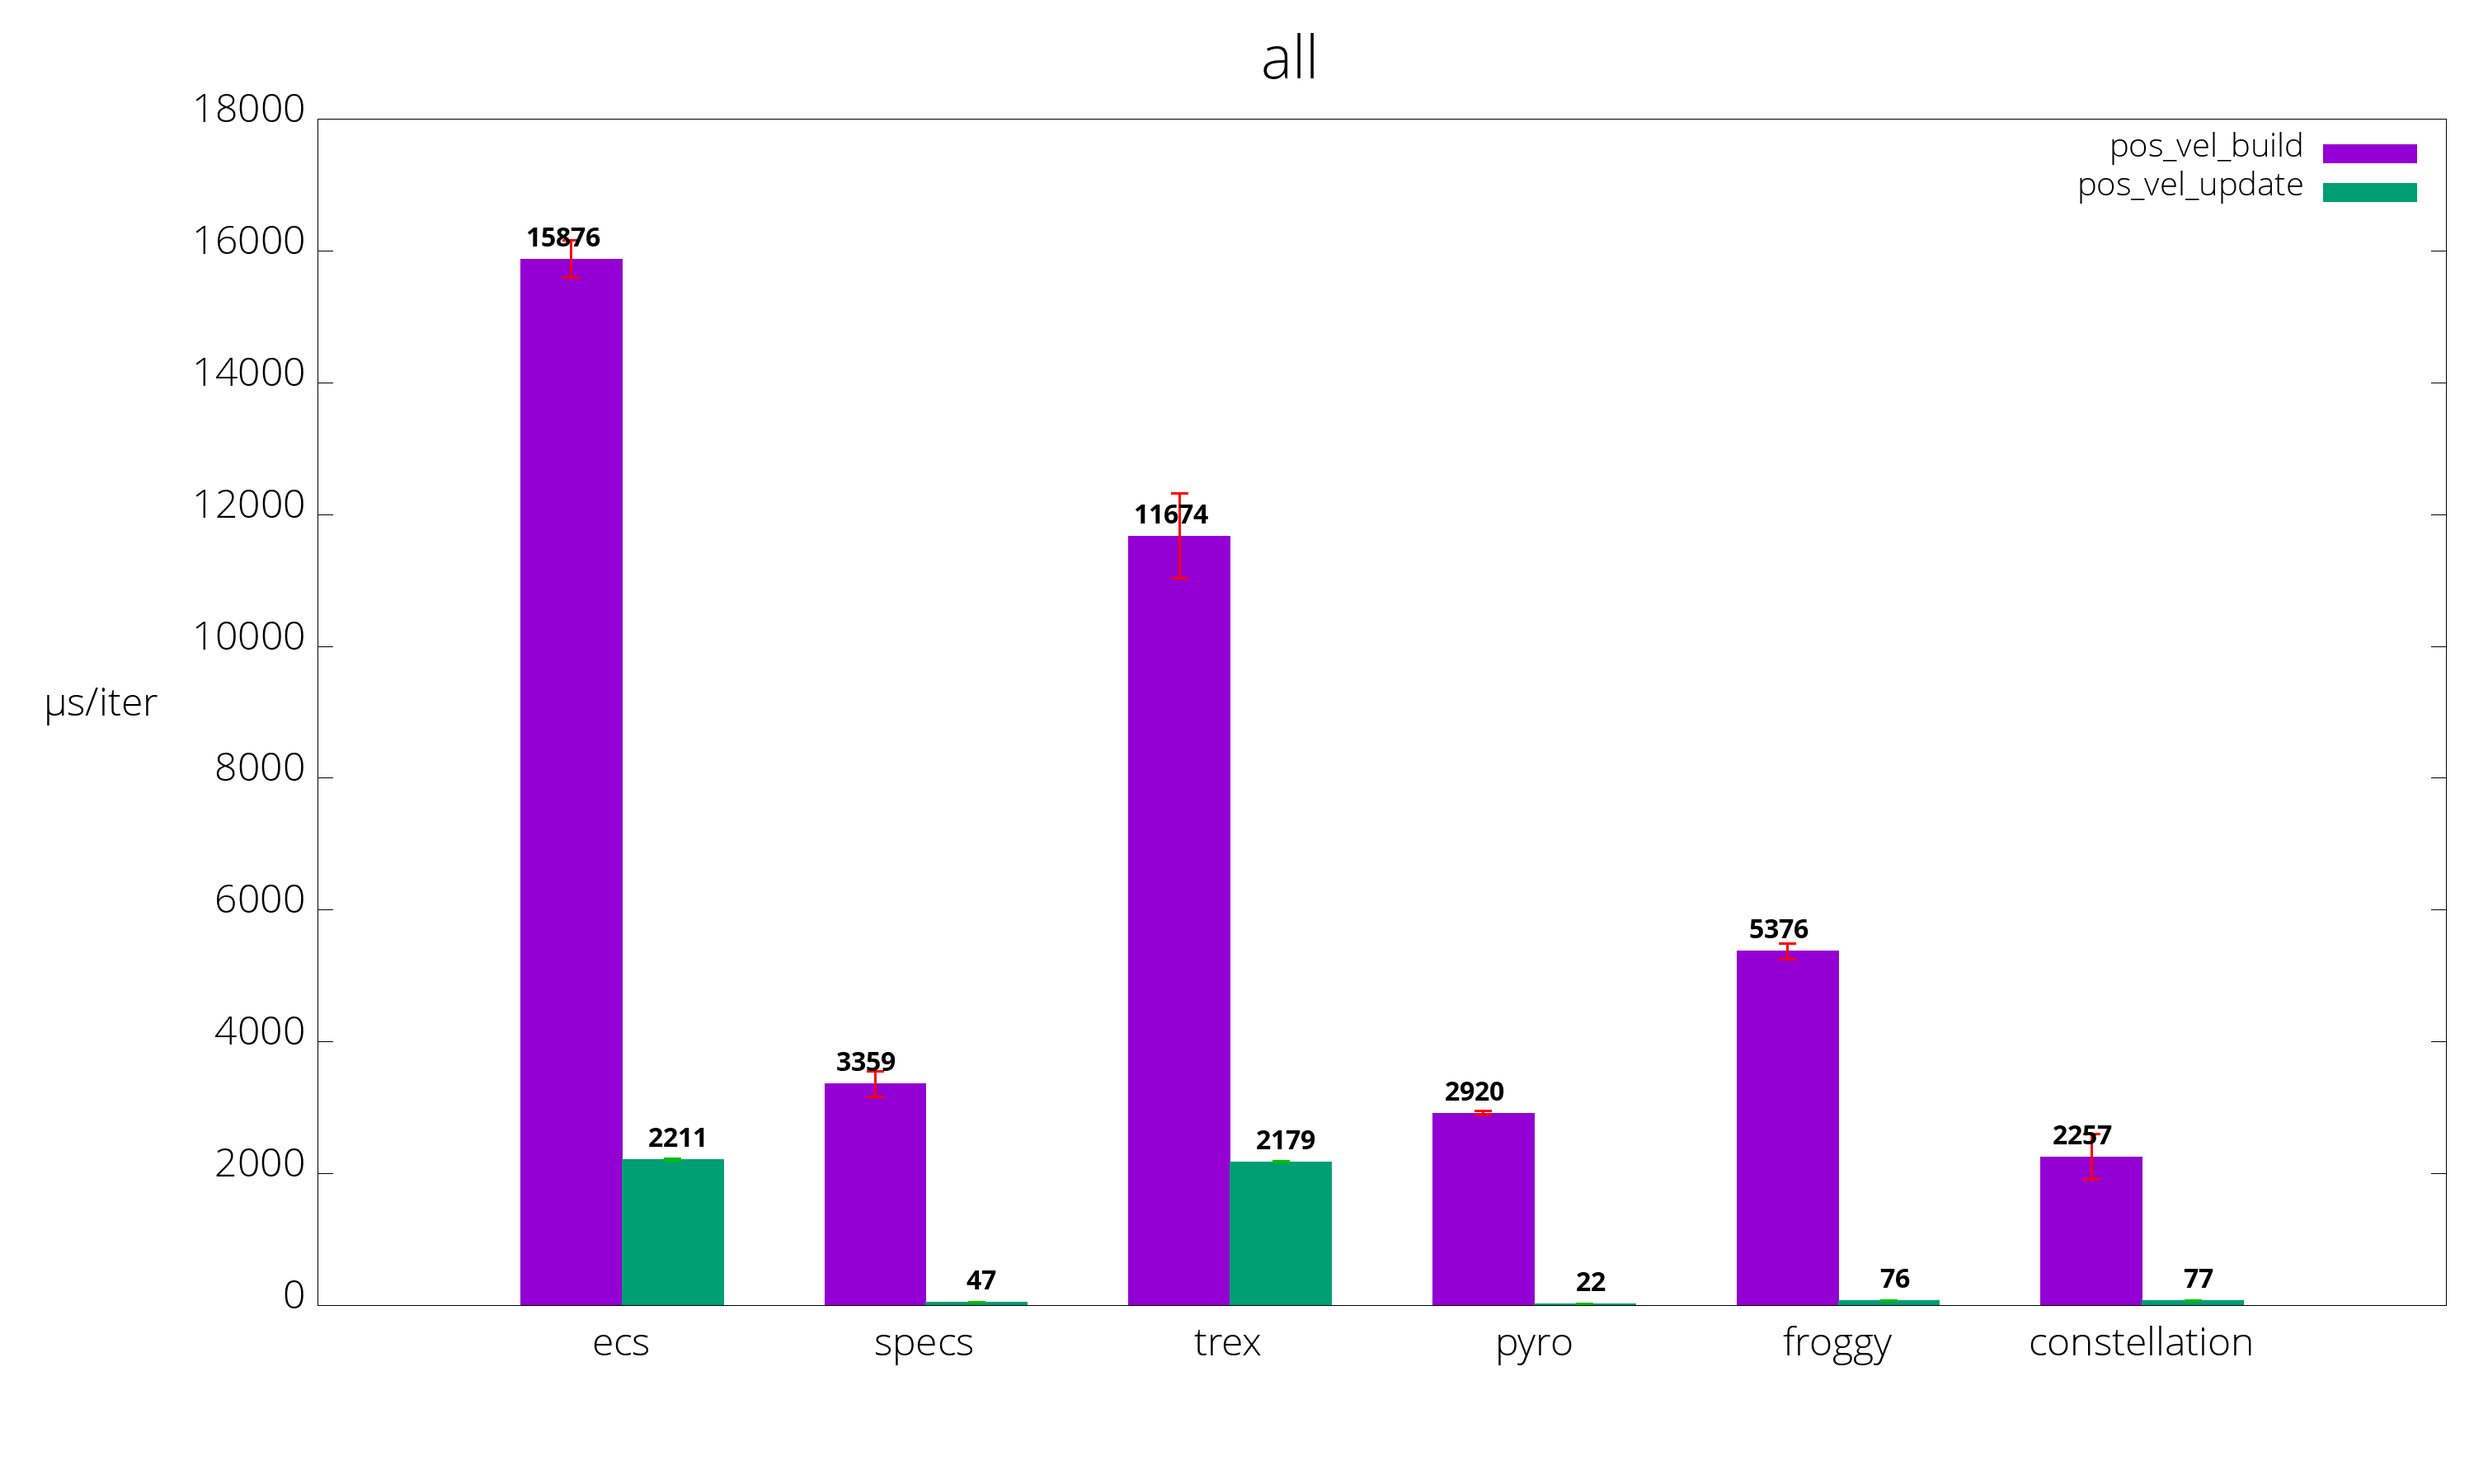
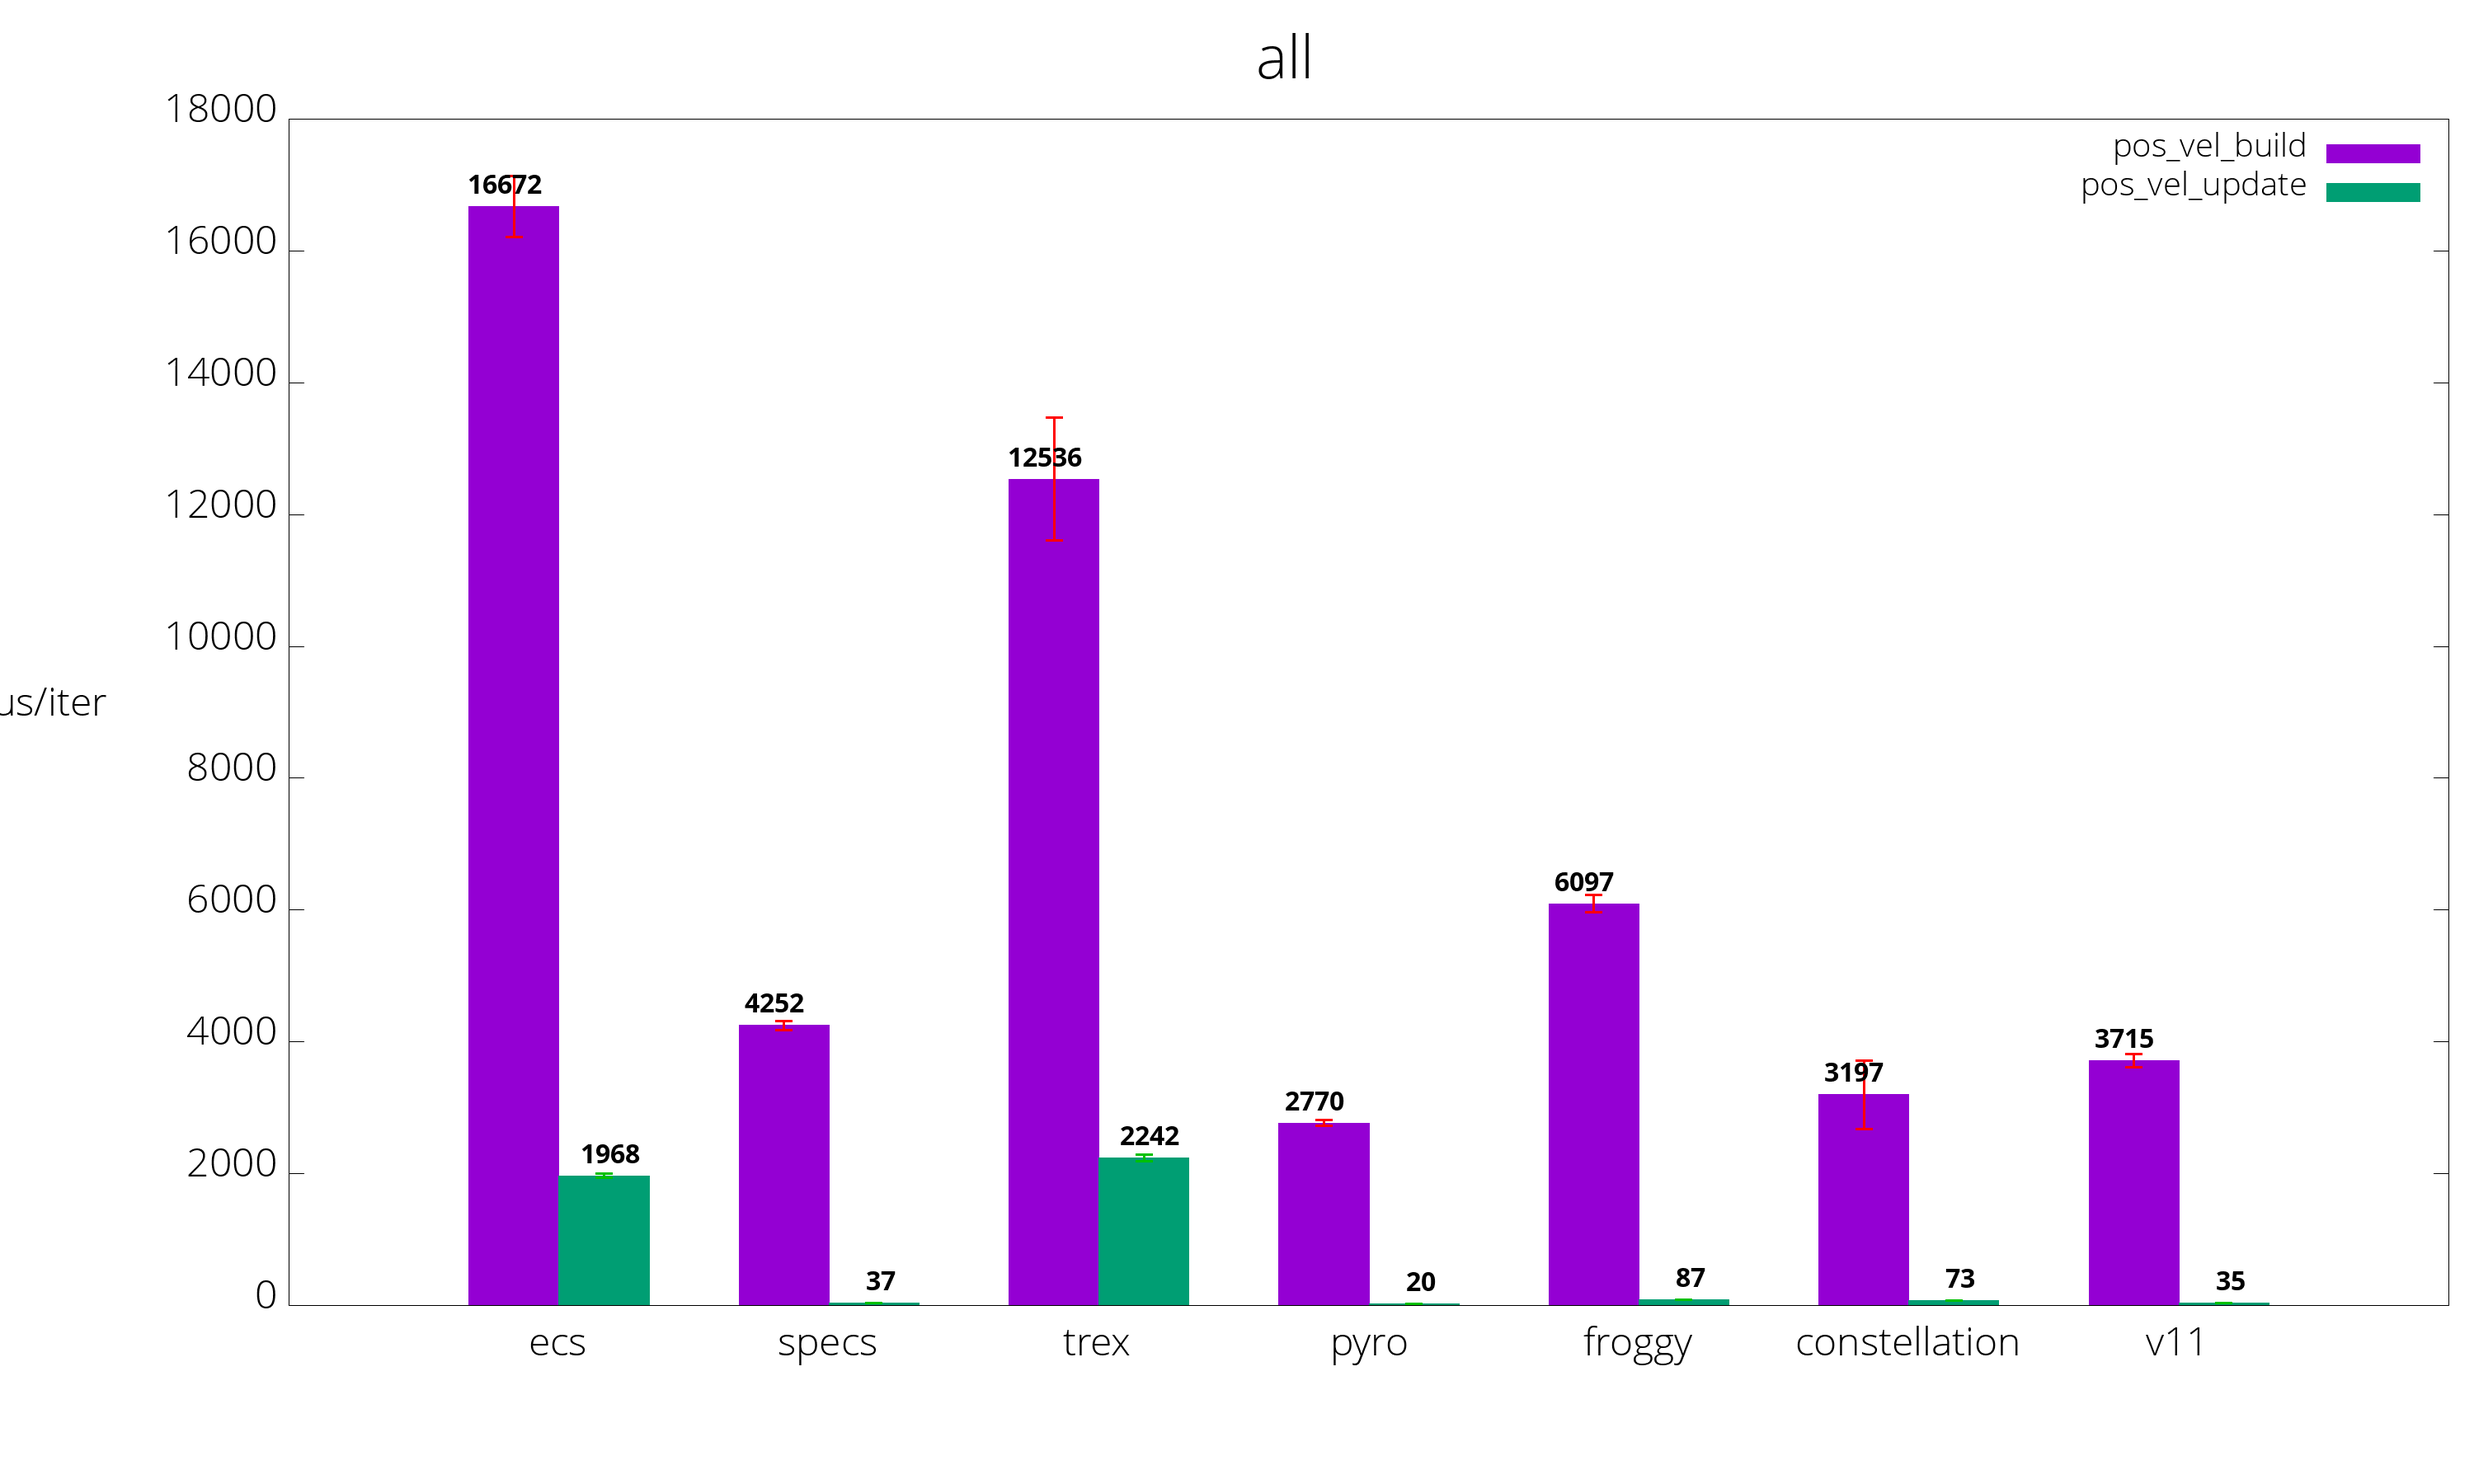
Ring.push(v11::hat)

diff --git a/benches/pos_vel_v11.rs b/benches/pos_vel_v11.rs
@@ -1,0 +1,88 @@
+#![feature(test)]
+
+extern crate test;
+use test::Bencher;
+extern crate ecs_bench;
+
+#[macro_use] extern crate v11;
+#[macro_use] extern crate v11_macros;
+
+use ecs_bench::pos_vel::{Position, Velocity, N_POS, N_POS_PER_VEL};
+
+domain! { BENCH }
+
+table! {
+    #[kind = "consistent"]
+    [BENCH/positions] {
+        p: [Position; VecCol<Position>],
+    }
+}
+table! {
+    #[kind = "consistent"]
+    [BENCH/velocities] {
+        posid: [positions::RowId; VecCol<positions::RowId>],
+        v: [Velocity; VecCol<Velocity>],
+    }
+}
+
+use v11::Universe;
+
+fn build() -> Universe {
+    static ONCE: ::std::sync::Once = ::std::sync::Once::new();
+    ONCE.call_once(|| {
+        BENCH.register();
+        positions::register();
+        velocities::register();
+    });
+    let universe = Universe::new(&[BENCH]);
+    {
+        let mut positions = positions::write(&universe);
+        let mut velocities = velocities::write(&universe);
+        positions.push_all((0..N_POS).map(|_| positions::Row {
+            p: Position {
+                x: 0.0,
+                y: 0.0,
+            },
+        }));
+        velocities.push_all(
+            (0..N_POS)
+            .filter(|i| i % N_POS_PER_VEL == 0)
+            .map(|i| {
+                let posid = positions::RowId::from_usize(i);
+                velocities::Row {
+                    posid,
+                    v: Velocity {
+                        dx: 0.0,
+                        dy: 0.0,
+                    },
+                }
+            })
+        );
+    }
+    universe
+}
+
+fn update(universe: &Universe) {
+    let mut positions = positions::write(universe);
+    let velocities = velocities::read(universe);
+    for vid in velocities.iter() {
+        let posid = velocities.posid[vid];
+        let p = &mut positions.p[posid];
+        p.x += velocities.v[vid].dx;
+        p.y += velocities.v[vid].dy;
+    }
+}
+
+#[bench]
+fn bench_build(b: &mut Bencher) {
+    b.iter(|| build());
+}
+
+#[bench]
+fn bench_update(b: &mut Bencher) {
+    let universe = build();
+
+    b.iter(|| {
+        update(&universe);
+    });
+}

diff --git a/bench_results.py b/bench_results.py
@@ -1,6 +1,6 @@
 import subprocess
 
-benches = ['ecs', 'specs', 'trex', 'pyro', 'froggy', 'constellation']
+benches = ['ecs', 'specs', 'trex', 'pyro', 'froggy', 'constellation', 'v11']
 bench_targets = ['pos_vel']
 bench_names = ['build', 'update']
 

diff --git a/README.md b/README.md
@@ -8,11 +8,11 @@ Benchmarks are located in `benches/[bench_name]_[ecs_crate_name].rs`.
  Library         | pos_vel build                 | pos_vel update                 | parallel build                 | parallel update
  --------------- |:-----------------------------:|:------------------------------:|:------------------------------:|:--------------------------------:
  [calx-ecs]      | {pos_vel_build_calx_ecs}      | {pos_vel_update_calx_ecs}      | {parallel_build_calx_ecs}      | {parallel_update_calx_ecs}
- [constellation] | 2,257 µs/iter (+/- 344) | 77 µs/iter (+/- 0) | {parallel_build_constellation} | {parallel_update_constellation}
- [ecs]           | 15,876 µs/iter (+/- 279)           | 2,211 µs/iter (+/- 13)           | {parallel_build_ecs}           | {parallel_update_ecs}
- [froggy]        | 5,376 µs/iter (+/- 117)        | 76 µs/iter (+/- 0)        | {parallel_build_froggy}        | {parallel_update_froggy}
- [specs]         | 3,359 µs/iter (+/- 191)         | 47 µs/iter (+/- 0)         | {parallel_build_specs}         | {parallel_update_specs}
- [trex]          | 11,674 µs/iter (+/- 641)          | 2,179 µs/iter (+/- 8)          | {parallel_build_trex}          | {parallel_update_trex}
+ [constellation] | 3,197 µs/iter (+/- 522) | 73 µs/iter (+/- 1) | {parallel_build_constellation} | {parallel_update_constellation}
+ [ecs]           | 16,672 µs/iter (+/- 464)           | 1,968 µs/iter (+/- 28)           | {parallel_build_ecs}           | {parallel_update_ecs}
+ [froggy]        | 6,097 µs/iter (+/- 134)        | 87 µs/iter (+/- 2)        | {parallel_build_froggy}        | {parallel_update_froggy}
+ [specs]         | 4,252 µs/iter (+/- 69)         | 37 µs/iter (+/- 1)         | {parallel_build_specs}         | {parallel_update_specs}
+ [trex]          | 12,536 µs/iter (+/- 933)          | 2,242 µs/iter (+/- 52)          | {parallel_build_trex}          | {parallel_update_trex}
 
 [calx-ecs]: https://github.com/rsaarelm/calx-ecs
 [constellation]: https://github.com/TomGillen/constellation/
